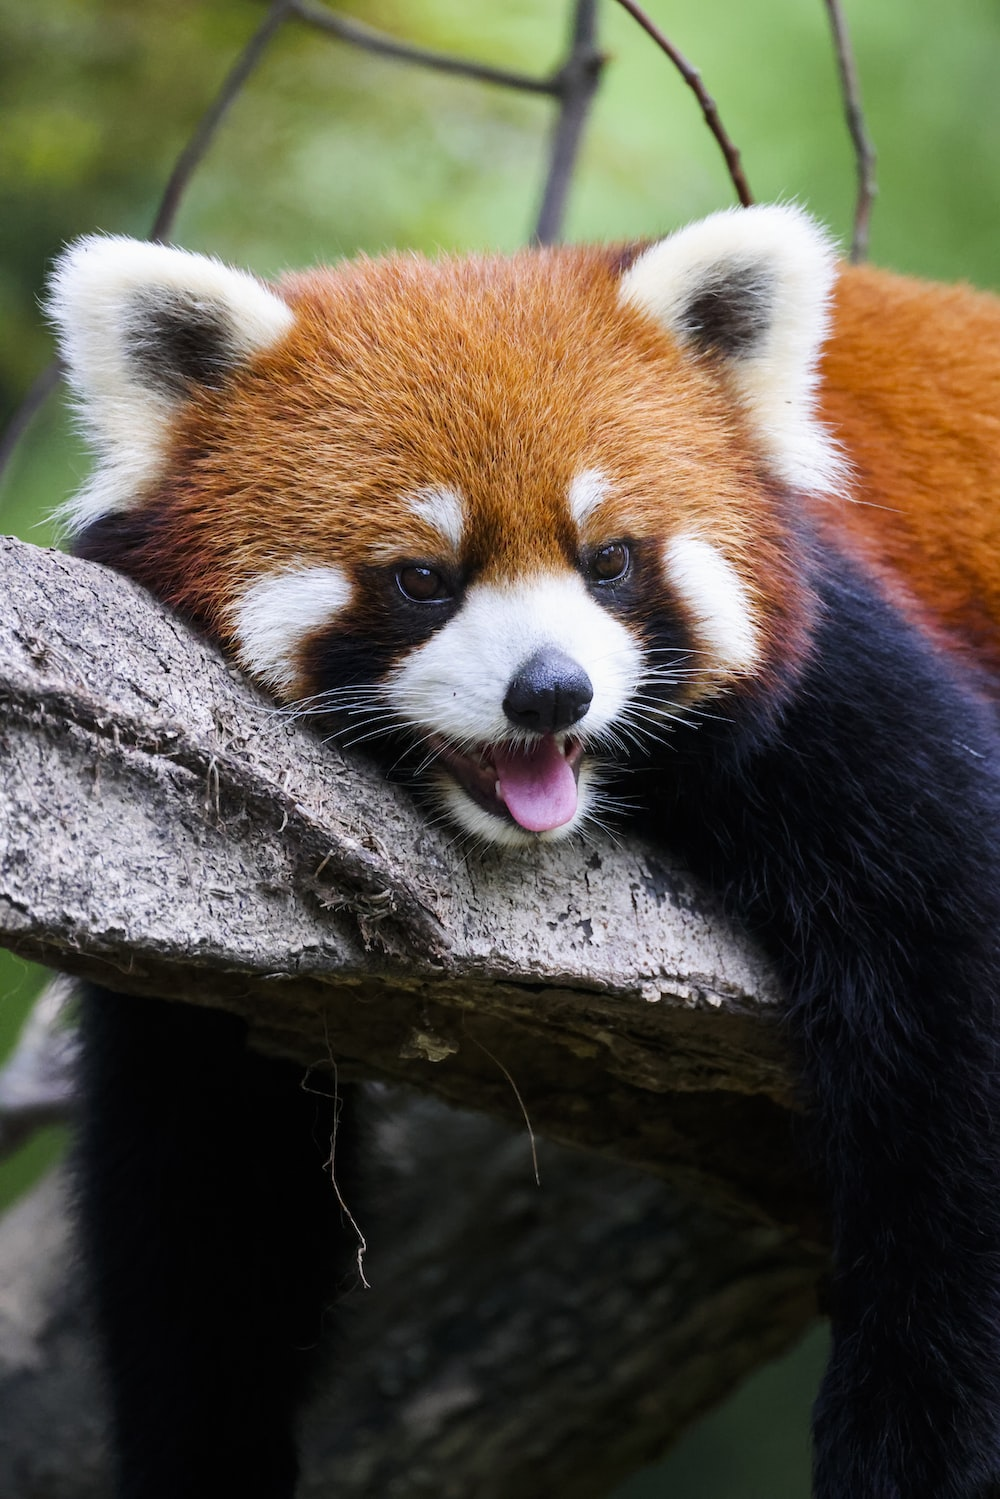
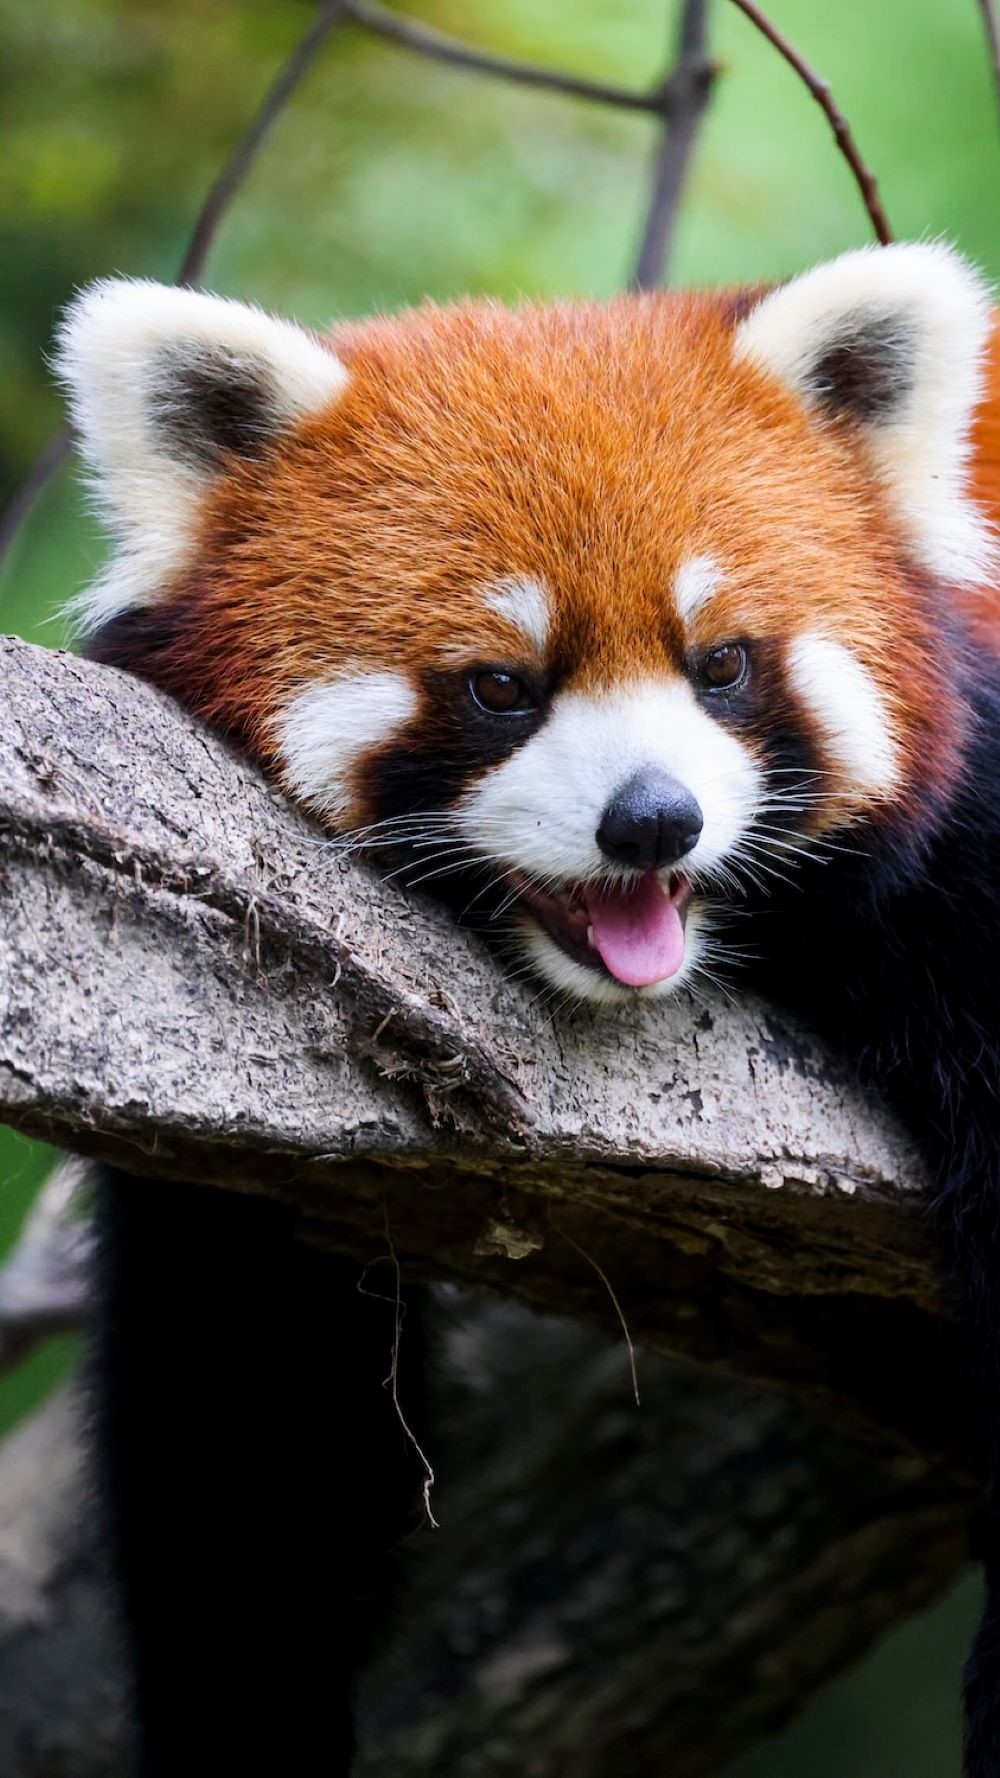
photos repsonive

diff --git a/photos.html b/photos.html
@@ -115,10 +115,10 @@
 		<img src="images/photospandamob1.jpg" class="d-block w-100" alt="...">
 	  </div>
 	  <div class="carousel-item">
-		<img src="..." class="d-block w-100" alt="...">
+		<img src="images/photospandamob2.jpg" class="d-block w-100" alt="...">
 	  </div>
 	  <div class="carousel-item">
-		<img src="..." class="d-block w-100" alt="...">
+		<img src="images/photospandamob3.jpg" class="d-block w-100" alt="...">
 	  </div>
 	</div>
 	<button class="carousel-control-prev" type="button" data-bs-target="#carouselExample" data-bs-slide="prev">
